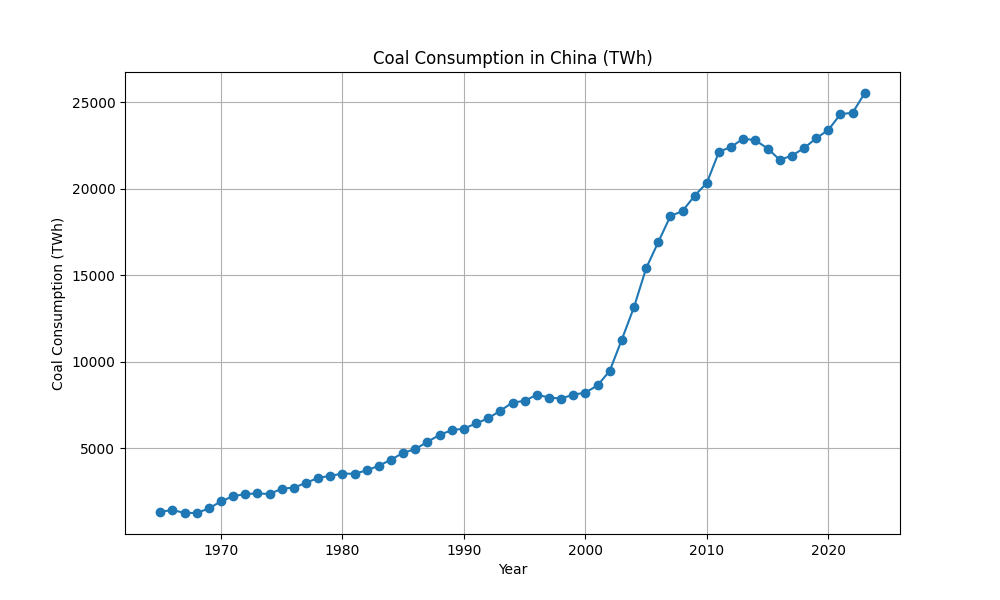
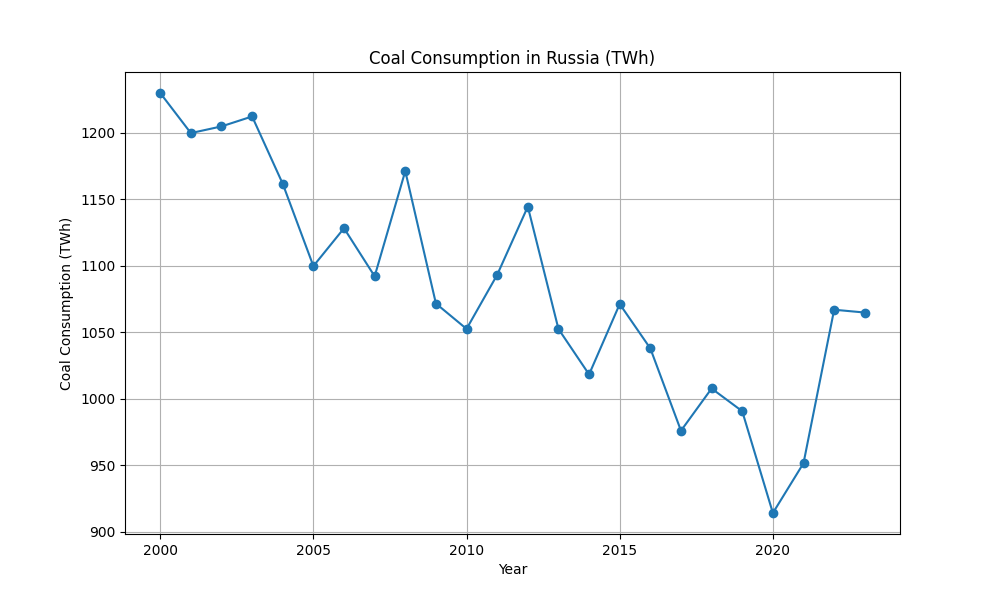
Restricted year from 2000 and forward

diff --git a/src/components/MainPageInfo.vue b/src/components/MainPageInfo.vue
@@ -8,6 +8,7 @@
       <select v-model="selectedCountry" @change="updateGraph">
         <option value="China">China</option>
         <option value="United States">United States</option>
+        <option value="Russia">Russia</option>
         <!-- Add more countries as needed -->
       </select>
     </div>
@@ -19,7 +20,7 @@
 </template>
 
 <script setup>
-import { ref, onMounted, watch } from 'vue';
+import {ref, onMounted, watch} from 'vue';
 
 defineProps({
   msg: {
@@ -49,6 +50,8 @@ watch(selectedCountry, updateGraph);
   align-items: center; /* Center children horizontally */
   justify-content: center; /* Center children vertically */
   height: 100vh; /* Full viewport height */
+  margin: 0 auto; /* Center container horizontally */
+  margin-left: 65px; /* Add left margin to move it to the right */
 }
 
 .greetings, .graph-container {

diff --git a/backend/server.py b/backend/server.py
@@ -13,7 +13,7 @@ def get_image():
     response = requests.get(url)
     response.raise_for_status()
     data = pd.read_csv(StringIO(response.text))
-    country_data = data[data['Entity'] == country]
+    country_data = data[(data['Entity'] == country) & (data['Year'] >= 2000)]
     plt.figure(figsize=(10, 6))
     plt.plot(country_data['Year'], country_data['coal_consumption_twh'], marker='o', linestyle='-')
     plt.title(f'Coal Consumption in {country} (TWh)')
